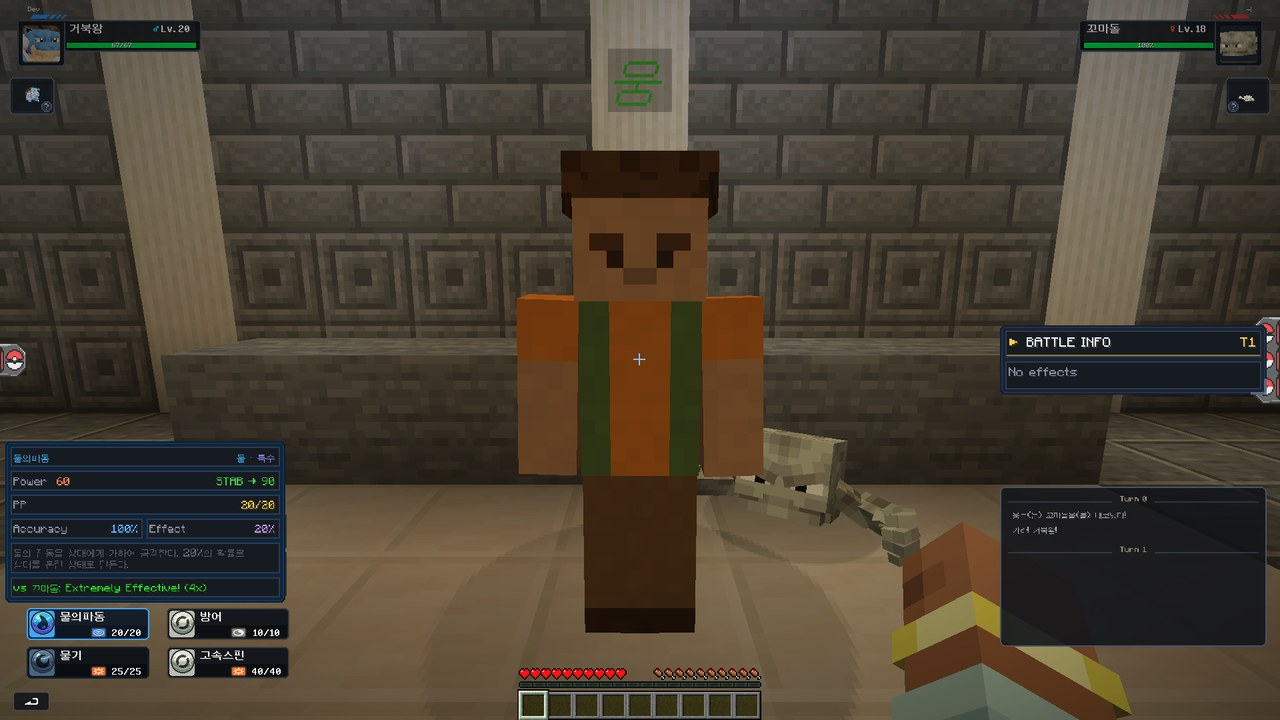
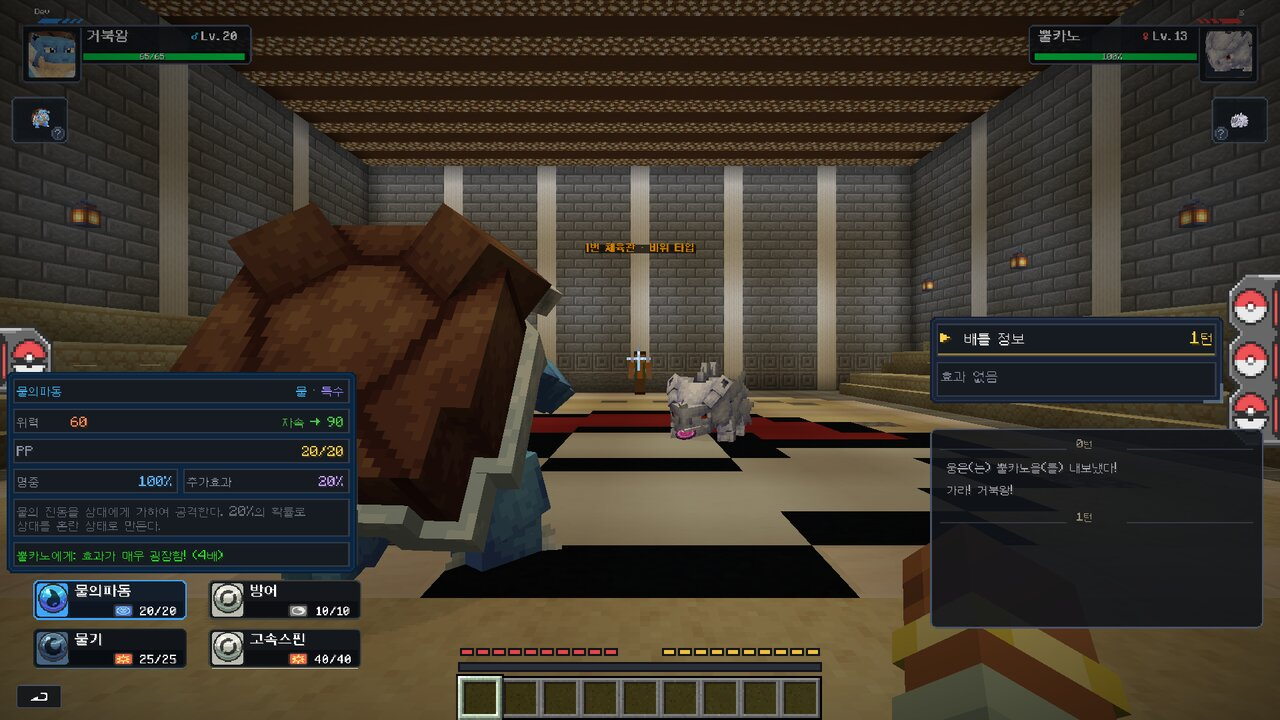
1.7.0: 배속 겹침 되돌리기(스택·틱 리셋), 새 mixin Pseudo, 타일 색 띠, 작은 속도 버튼, 문서 이미지
Claude-Session: https://claude.ai/code/session_01KfYadX4RQW6s5szTxe11BK

diff --git a/mod/src/client/java/com/pokeserver/client/mixin/GeneralActionMixin.java b/mod/src/client/java/com/pokeserver/client/mixin/GeneralActionMixin.java
@@ -23,7 +23,7 @@ import org.spongepowered.asm.mixin.injection.callback.CallbackInfoReturnable;
  *  그 위에 작은 "전투 속도 1x·2x·4x" 버튼 (누를 때마다 바뀜, 서버가 배틀 기다림을 줄임). */
 @Mixin(value = BattleGeneralActionSelection.class, remap = false)
 abstract class GeneralActionMixin {
-    @Unique private static final int SW = 66, SH = 12, HALF = 48;   // 속도 버튼 크기 (배틀 좌표)
+    @Unique private static final int SW = 40, SH = 16, HALF = 17;   // 참고 사진: 작은 판, 왼쪽 "전투/속도" 두 줄 + 오른쪽 값   // 속도 버튼 크기 (배틀 좌표)
 
     @Inject(method = "<init>", at = @At("RETURN"))
     private void pokeserver$layout(BattleGUI gui, SingleActionRequest request, CallbackInfo ci) {
@@ -64,14 +64,20 @@ abstract class GeneralActionMixin {
         g.renderOutline(x, y, SW, SH, hov ? Theme.ACCENT : 0xFF3A4152);
         g.fill(x + half, y + 1, x + half + 1, y + SH - 1, 0xFF3A4152);
         var font = Minecraft.getInstance().font;
-        float k = BattleScale.crisp(0.6f);   // 작은 글자, 한 점 = 정수 픽셀
+        float ks = 1 / BattleScale.pixels(), kv = BattleScale.crisp(0.6f);   // 이름: 한 점 = 1픽셀(작게), 값: 정수 픽셀
+        for (int i = 0; i < 2; i++) {
+            var line = Theme.t(i == 0 ? "전투" : "속도");
+            g.pose().pushPose();
+            g.pose().translate(x + (half - font.width(line) * ks) / 2f, y + (SH - 26 * ks) / 2f + i * 13 * ks, 0);
+            g.pose().scale(ks, ks, 1);
+            g.drawString(font, line, 0, 0, Theme.SUBTEXT, false);
+            g.pose().popPose();
+        }
+        var val = Theme.t(BattleScale.speed + "x");
         g.pose().pushPose();
-        g.pose().translate(x, y + (SH - 8 * k) / 2f + 0.5f, 0);
-        g.pose().scale(k, k, 1);
-        String label = "전투 속도", val = BattleScale.speed + "x";
-        g.drawString(font, Theme.t(label), Math.round((half / k - font.width(Theme.t(label))) / 2), 0, Theme.SUBTEXT, false);
-        g.drawString(font, Theme.t(val), Math.round(half / k + ((SW - half) / k - font.width(Theme.t(val))) / 2), 0,
-                BattleScale.speed > 1 ? Theme.GOLD : Theme.TEXT, false);
+        g.pose().translate(x + half + (SW - half - font.width(val) * kv) / 2f, y + (SH - 8 * kv) / 2f, 0);
+        g.pose().scale(kv, kv, 1);
+        g.drawString(font, val, 0, 0, BattleScale.speed > 1 ? Theme.GOLD : Theme.TEXT, false);
         g.pose().popPose();
     }
 

diff --git a/mod/src/main/java/com/pokeserver/mixin/ActionSpeedMixin.java b/mod/src/main/java/com/pokeserver/mixin/ActionSpeedMixin.java
@@ -6,6 +6,7 @@ import com.cobblemon.mod.common.battles.BattleRegistry;
 import com.cobblemon.mod.common.entity.pokemon.PokemonEntity;
 import com.pokeserver.CobblemonHooks;
 import org.spongepowered.asm.mixin.Mixin;
+import org.spongepowered.asm.mixin.Pseudo;
 import org.spongepowered.asm.mixin.Unique;
 import org.spongepowered.asm.mixin.injection.At;
 import org.spongepowered.asm.mixin.injection.Inject;
@@ -13,13 +14,15 @@ import org.spongepowered.asm.mixin.injection.callback.CallbackInfoReturnable;
 
 /** 5. 배틀 배속: 기술 연출(액션 이펙트) 키프레임이 도는 동안 그 배틀의 배속을 기억 → DelayMixin이 기다림(delayedFuture)을 그만큼 줄임.
  *  키프레임 play 안에서 delayedFuture를 바로 부르므로, play 앞뒤로만 값이 있으면 됨 (중첩 키프레임은 이전 값으로 되돌림). */
+@Pseudo
 @Mixin(targets = "com.cobblemon.mod.common.api.moves.animations.keyframes.ConditionalActionEffectKeyframe", remap = false)
 abstract class ActionSpeedMixin {
-    @Unique private static final ThreadLocal<Integer> PREV = new ThreadLocal<>();
+    /** 부모 키프레임(순서·동시)이 자식 play를 안에서 부르므로 겹침 → 이전 값을 쌓아 두고 RETURN에서 하나씩 되돌림. */
+    @Unique private static final ThreadLocal<java.util.ArrayDeque<Integer>> PREV = ThreadLocal.withInitial(java.util.ArrayDeque::new);
 
     @Inject(method = "play", at = @At("HEAD"))
     private void pokeserver$enter(ActionEffectContext ctx, CallbackInfoReturnable<?> cir) {
-        PREV.set(CobblemonHooks.ACTION_SPEED.get());
+        PREV.get().push(CobblemonHooks.ACTION_SPEED.get());
         int s = 1;
         for (Object p : ctx.getProviders())
             if (p instanceof UsersProvider u)
@@ -33,7 +36,7 @@ abstract class ActionSpeedMixin {
 
     @Inject(method = "play", at = @At("RETURN"))
     private void pokeserver$exit(ActionEffectContext ctx, CallbackInfoReturnable<?> cir) {
-        Integer p = PREV.get();
+        Integer p = PREV.get().poll();
         CobblemonHooks.ACTION_SPEED.set(p == null ? 1 : p);
     }
 }

diff --git a/mod/src/client/java/com/pokeserver/client/mixin/OptionTileMixin.java b/mod/src/client/java/com/pokeserver/client/mixin/OptionTileMixin.java
@@ -6,6 +6,10 @@ import org.spongepowered.asm.mixin.injection.Constant;
 import org.spongepowered.asm.mixin.injection.ModifyArg;
 import org.spongepowered.asm.mixin.injection.ModifyConstant;
 import org.spongepowered.asm.mixin.injection.At;
+import org.spongepowered.asm.mixin.injection.Inject;
+import org.spongepowered.asm.mixin.injection.callback.CallbackInfo;
+import com.cobblemon.mod.common.client.gui.battle.widgets.BattleOptionTile;
+import net.minecraft.client.gui.GuiGraphics;
 import com.pokeserver.client.BattleScale;
 
 /** 행동 버튼(싸운다·포켓몬·포기): 왼쪽에 색 아이콘 칸이 생겨 이름을 x+6 → x+29 로. */
@@ -18,4 +22,13 @@ abstract class OptionTileMixin {
     /** 2. 타일 이름 글자 배율 1.0 → 한 점이 정수 픽셀인 가장 가까운 큰 값 (1080p면 1.2 = 3픽셀). 타일 크기는 그대로. */
     @ModifyArg(method = "method_25394", at = @At(value = "INVOKE", target = "Lcom/cobblemon/mod/common/client/render/RenderHelperKt;drawScaledText$default(Lnet/minecraft/class_332;Lnet/minecraft/class_2960;Lnet/minecraft/class_5250;Ljava/lang/Number;Ljava/lang/Number;FLjava/lang/Number;IIZZLjava/lang/Integer;Ljava/lang/Integer;ILjava/lang/Object;)V"), index = 5)
     private float pokeserver$crispText(float k) { return BattleScale.crisp(k * BattleScale.selScale() - 1e-3f) / BattleScale.selScale(); }
+
+    /** 5. 참고 사진처럼 타일 오른쪽 끝에 얇은 색 띠 (싸운다 빨강, 포켓몬 초록, 포기·도망 회색, 잡기 노랑). */
+    @Inject(method = "method_25394", at = @At("TAIL"))
+    private void pokeserver$strip(GuiGraphics g, int mx, int my, float pt, CallbackInfo ci) {
+        var t = (BattleOptionTile) (Object) this;
+        String p = t.getResource().getPath();
+        int c = p.contains("fight") ? 0xFFC8504C : p.contains("switch") ? 0xFF4FAE5A : p.contains("bag") ? 0xFFE0A63A : 0xFF9AA0A8;
+        g.fill(t.getX() + 87, t.getY() + 5, t.getX() + 88, t.getY() + 21, c);
+    }
 }

diff --git a/mod/src/main/java/com/pokeserver/PokeServer.java b/mod/src/main/java/com/pokeserver/PokeServer.java
@@ -78,7 +78,7 @@ public class PokeServer implements ModInitializer {
             for (var p : server.getPlayerList().getPlayers())
                 if (Plaza.protects(p.level(), p.blockPosition())) p.addTag("poke.in_plaza"); else p.removeTag("poke.in_plaza");
             // 데이터팩 league/pads가 봄: 배틀 중이면 포기 발판이 안 먹음
-            if (net.fabricmc.loader.api.FabricLoader.getInstance().isModLoaded("cobblemon")) { CobblemonHooks.tagBattling(server); if (server.getTickCount() % 2 == 0) CobblemonHooks.holdBattlePokemon(server); }
+            if (net.fabricmc.loader.api.FabricLoader.getInstance().isModLoaded("cobblemon")) { CobblemonHooks.tagBattling(server); CobblemonHooks.ACTION_SPEED.set(1); /* 안전장치: 연출 중 예외로 못 되돌려도 다음 틱엔 1배 */ if (server.getTickCount() % 2 == 0) CobblemonHooks.holdBattlePokemon(server); }
             if (server.getTickCount() % 100 == 0) Farms.refreshLabels(server);
             if (server.getTickCount() % 20 == 0) { Teleport.tick(server); Nicknames.tick(server); Plaza.modes(server); }
             if (server.getTickCount() % 200 == 0 && net.fabricmc.loader.api.FabricLoader.getInstance().isModLoaded("cobblemon")) CobblemonHooks.reapply(server);

diff --git a/mod/src/main/java/com/pokeserver/mixin/BattleSpeedMixin.java b/mod/src/main/java/com/pokeserver/mixin/BattleSpeedMixin.java
@@ -3,12 +3,14 @@ package com.pokeserver.mixin;
 import com.cobblemon.mod.common.api.battles.model.PokemonBattle;
 import com.pokeserver.CobblemonHooks;
 import org.spongepowered.asm.mixin.Mixin;
+import org.spongepowered.asm.mixin.Pseudo;
 import org.spongepowered.asm.mixin.injection.At;
 import org.spongepowered.asm.mixin.injection.ModifyVariable;
 
 /** 5. 배틀 배속: 코블몬이 배틀 메시지 사이에 두는 기다림(dispatchWaiting 초)을 배속만큼 줄임.
  *  shortcut: 기술 연출(액션 이펙트)·교체·특성 알림처럼 따로 기다리는 몇 곳은 그대로, 더 빨라야 하면 WaitDispatch 생성자도 줄이기. */
-@Mixin(value = PokemonBattle.class, remap = false)
+@Pseudo
+@Mixin(targets = "com.cobblemon.mod.common.api.battles.model.PokemonBattle", remap = false)
 abstract class BattleSpeedMixin {
     @ModifyVariable(method = {"dispatchWaiting", "dispatchWaitingToFront"}, at = @At("HEAD"), argsOnly = true, ordinal = 0)
     private float pokeserver$fast(float seconds) {

diff --git a/mod/src/main/java/com/pokeserver/mixin/DelaySpeedMixin.java b/mod/src/main/java/com/pokeserver/mixin/DelaySpeedMixin.java
@@ -2,10 +2,12 @@ package com.pokeserver.mixin;
 
 import com.pokeserver.CobblemonHooks;
 import org.spongepowered.asm.mixin.Mixin;
+import org.spongepowered.asm.mixin.Pseudo;
 import org.spongepowered.asm.mixin.injection.At;
 import org.spongepowered.asm.mixin.injection.ModifyVariable;
 
 /** 5. 배틀 배속: 기술 연출 키프레임 안에서 부른 기다림만 배속만큼 짧게 (ActionSpeedMixin이 값을 정함, 그 밖에선 1). */
+@Pseudo
 @Mixin(targets = "com.cobblemon.mod.common.api.scheduling.SchedulingFunctionsKt", remap = false)
 abstract class DelaySpeedMixin {
     @ModifyVariable(method = "delayedFuture(F)Ljava/util/concurrent/CompletableFuture;", at = @At("HEAD"), argsOnly = true, ordinal = 0)
